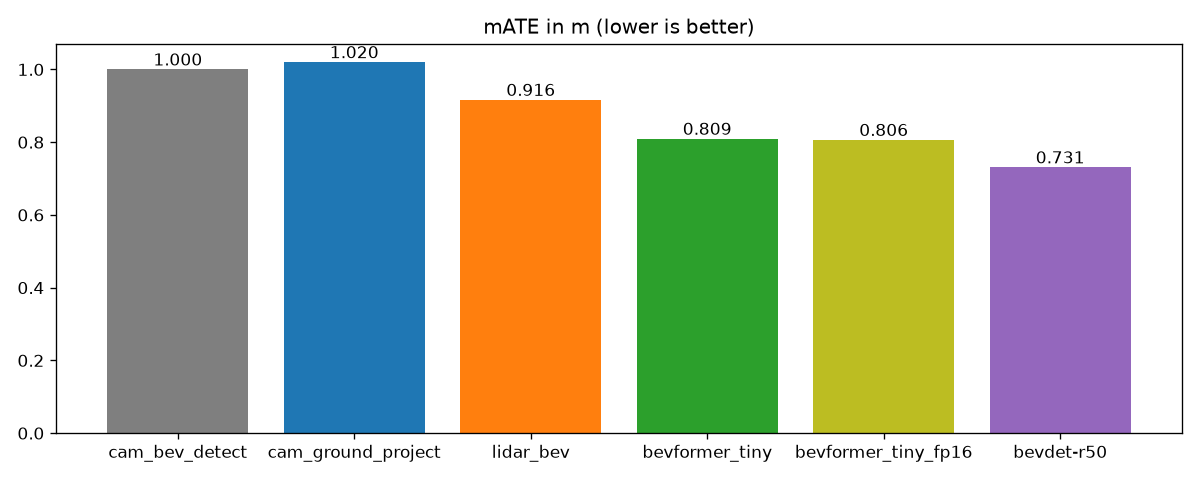
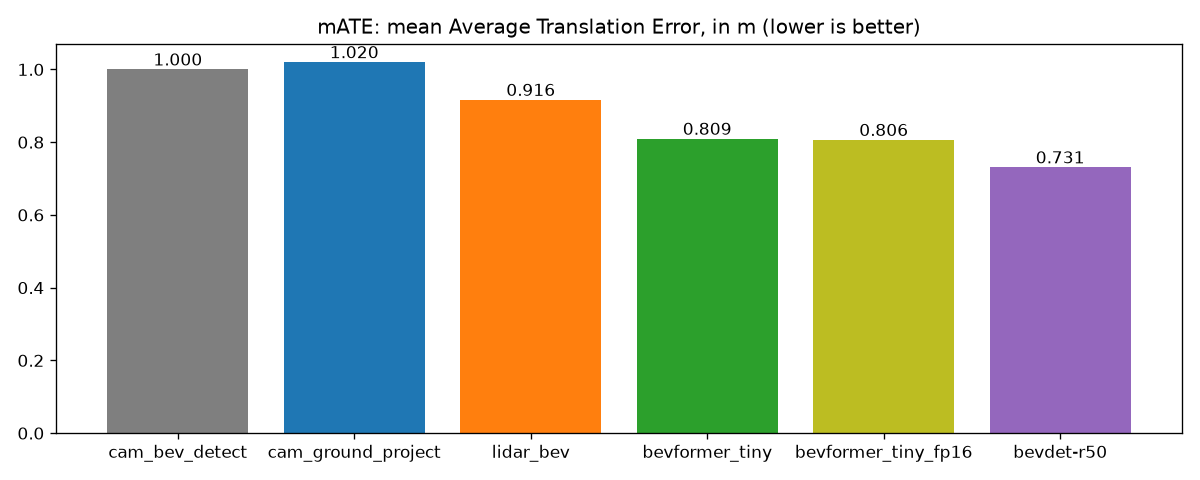
explain mAP/mATE in chart titles, show published GPU speeds for learned models in runtime chart

Changed region(s): [[0.2467, 0.0312, 0.7708, 0.0938]]

diff --git a/eval_benchmark.py b/eval_benchmark.py
@@ -174,8 +174,20 @@ if __name__ == "__main__":
     # ========== BAR GRAPHS: ONE FIGURE PER METRIC ==========
     import matplotlib.pyplot as plt
     names = list(scores.keys())
-    metrics = [("mAP", "mAP (higher is better)"),
-               ("mATE", "mATE in m (lower is better)"),
+
+    # the learned models have no timing.json (they ran on Isaiah's GPU without a timer), so the runtime chart
+    # uses PUBLISHED speeds for them instead, drawn hatched and labelled "reported".
+    # these are GPU inference only (RTX 3090), NOT comparable to our whole-script CPU times:
+    #   BEVDet R50: 30.7 FPS, official BEVDet repo (PyTorch, no postprocessing)
+    #   BEVFormer tiny FP32 / FP16: 37.9 / 69.2 FPS, unofficial TensorRT port (gitee: superpig2021/BEVFormer_tensorrt)
+    reported = {"bevformer_tiny": 1 / 37.9, "bevformer_tiny_fp16": 1 / 69.2, "bevdet-r50": 1 / 30.7}
+    for n in list(reported):
+        if scores[n]["sec_per_sample"] is None:
+            scores[n]["sec_per_sample"] = reported[n]
+        else:
+            del reported[n]   # a real measurement exists, use it
+    metrics = [("mAP", "mAP: mean Average Precision (higher is better)"),
+               ("mATE", "mATE: mean Average Translation Error, in m (lower is better)"),
                ("sec_per_sample", "runtime in s/sample (lower is better)")]
     for key, title in metrics:
         values = [scores[n][key] if scores[n][key] is not None else 0 for n in names]   # 0 = no timing.json yet
@@ -183,7 +195,13 @@ if __name__ == "__main__":
         bars = plt.bar(names, values, color=["tab:gray", "tab:blue", "tab:orange", "tab:green", "tab:olive", "tab:purple"])
         for bar, n in zip(bars, names):
             label = "no timing" if scores[n][key] is None else f"{scores[n][key]:.3f}"
+            if key == "sec_per_sample" and n in reported:
+                bar.set_hatch("//")
+                label += "\n(reported, GPU)"
             plt.text(bar.get_x() + bar.get_width() / 2, bar.get_height(), label, ha="center", va="bottom")
+        if key == "sec_per_sample":
+            plt.yscale("log")   # GPU (~0.03 s) and CPU (~14 s) differ by ~500x
+            title += "\nsolid = measured whole script on CPU, hatched = published GPU inference only (not comparable)"
         plt.title(title)
         plt.tight_layout()
         plt.savefig(f"figs/benchmark_{key}.png", dpi=120)
